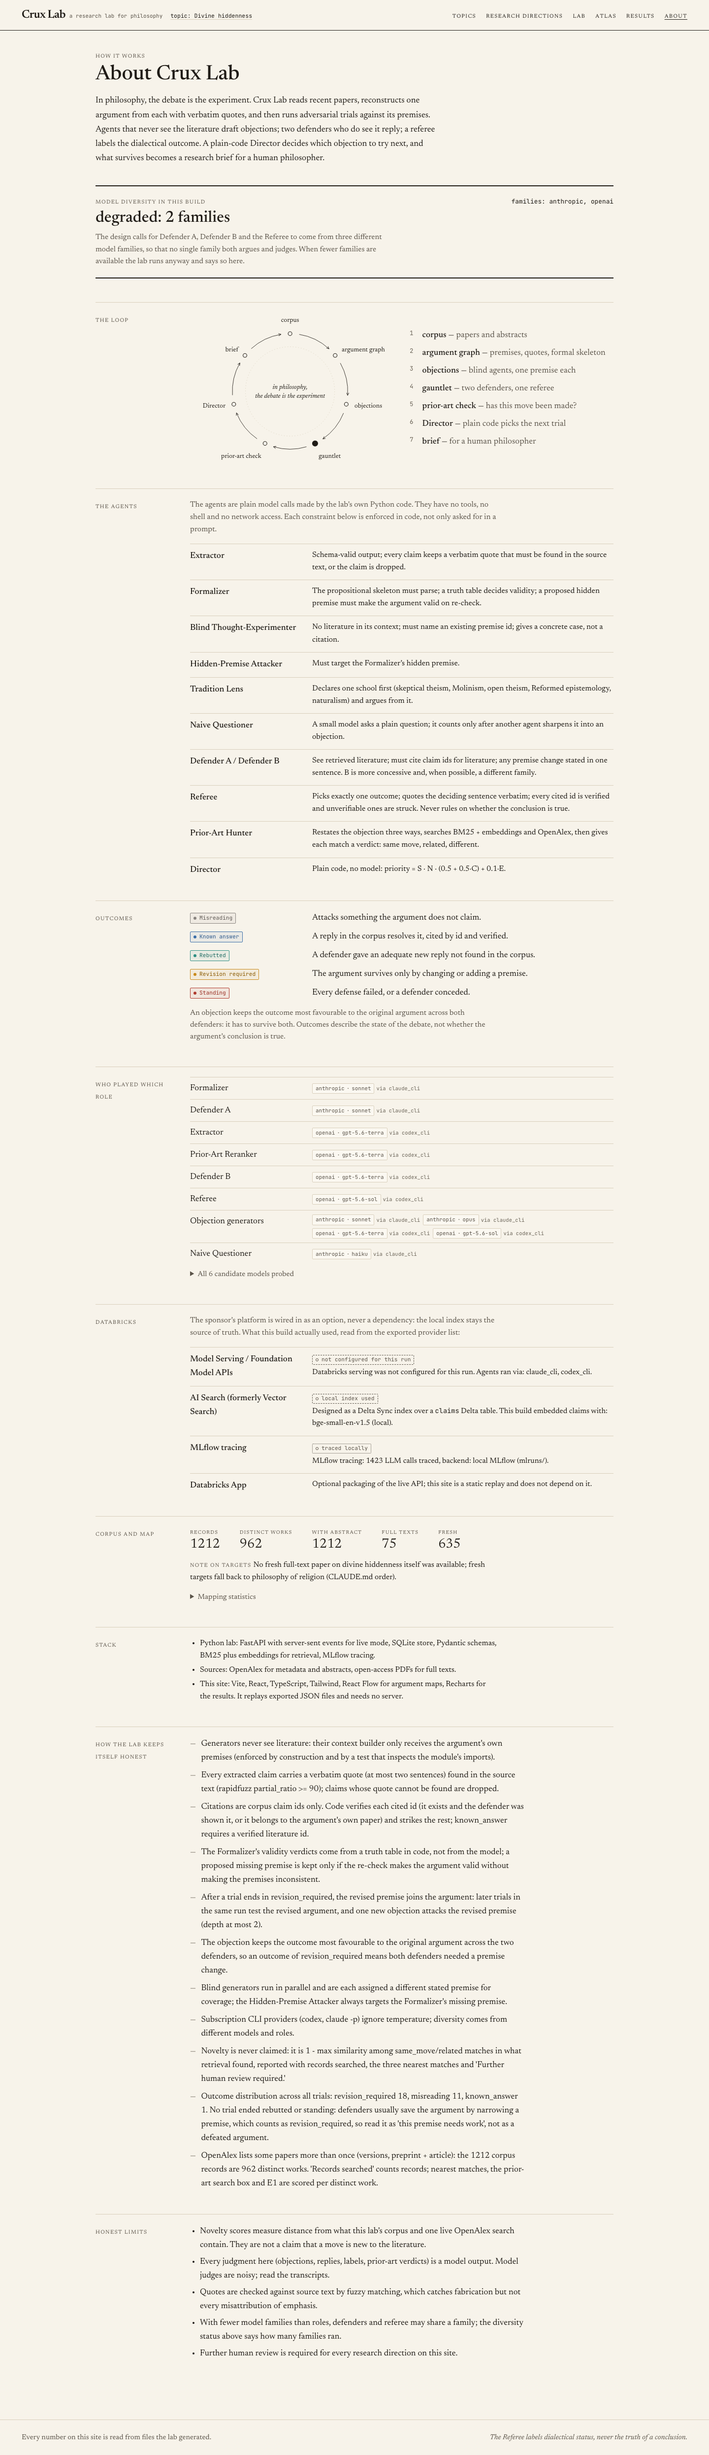
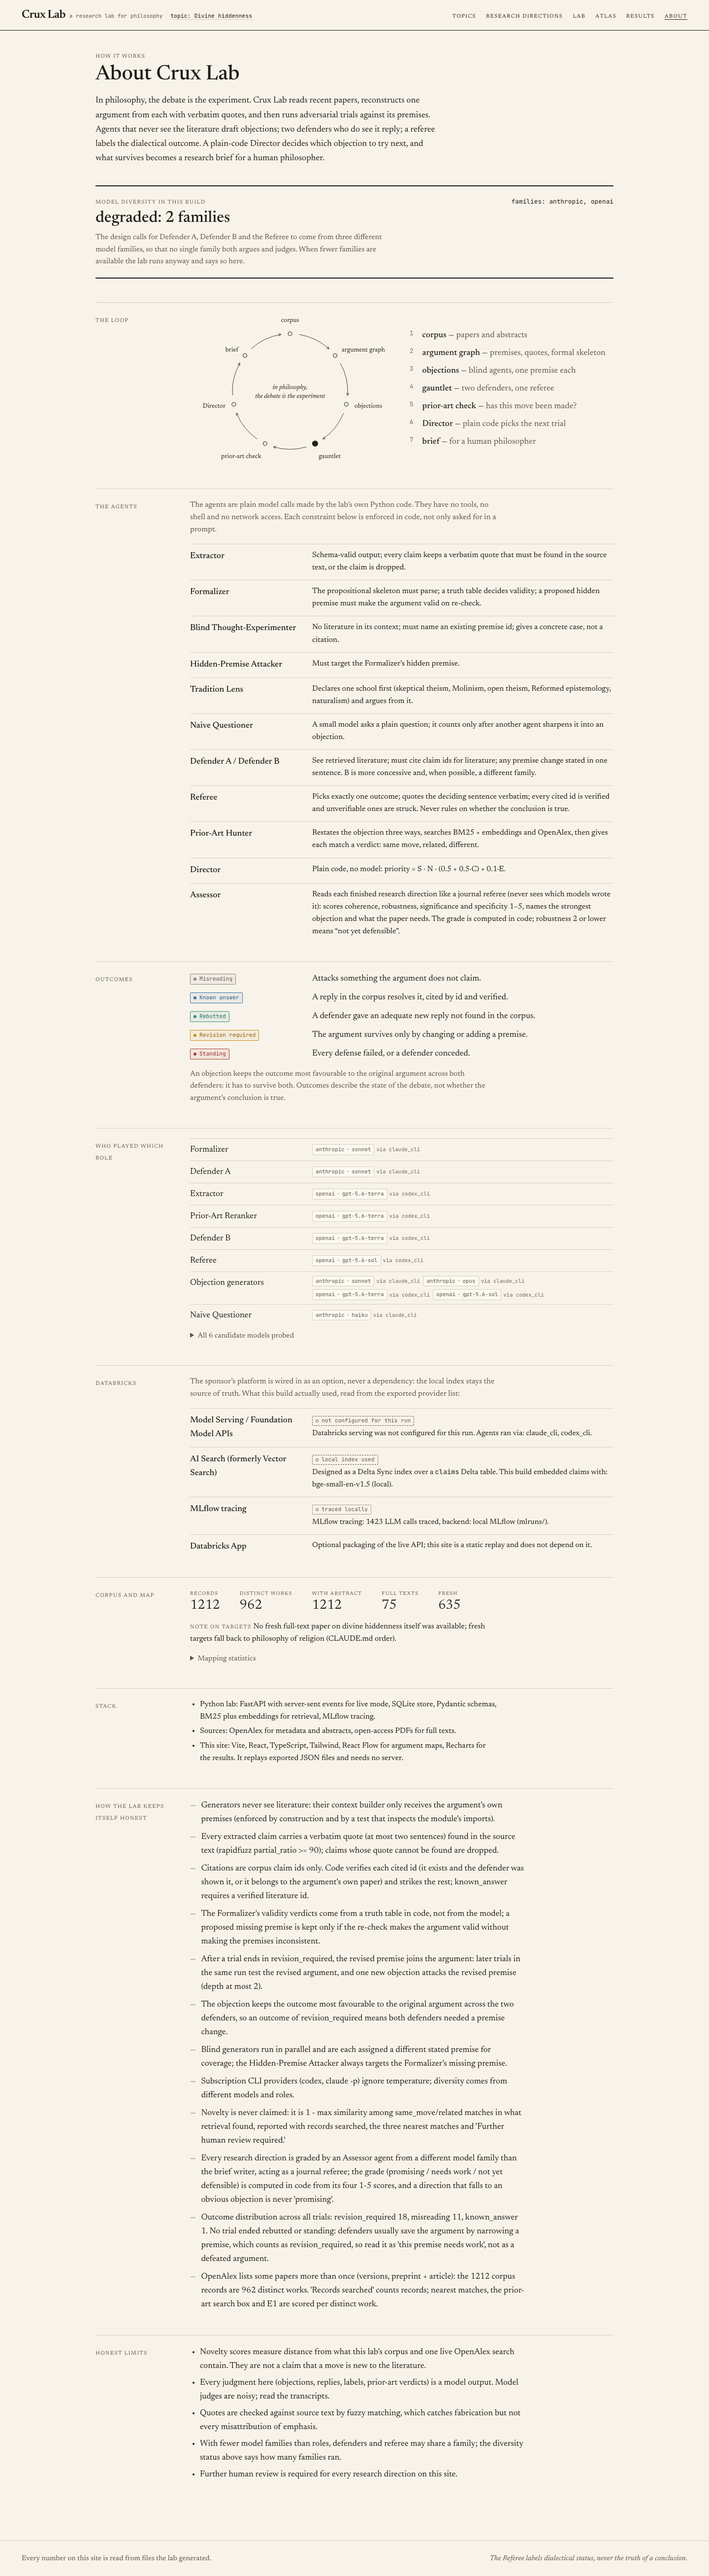
Assessor documented: About agents table, method notes, submission draft, demo script

diff --git a/web/src/pages/About.tsx b/web/src/pages/About.tsx
@@ -25,6 +25,7 @@ const AGENTS: { name: string; constraint: string }[] = [
   { name: "Referee", constraint: "Picks exactly one outcome; quotes the deciding sentence verbatim; every cited id is verified and unverifiable ones are struck. Never rules on whether the conclusion is true." },
   { name: "Prior-Art Hunter", constraint: "Restates the objection three ways, searches BM25 + embeddings and OpenAlex, then gives each match a verdict: same move, related, different." },
   { name: "Director", constraint: "Plain code, no model: priority = S · N · (0.5 + 0.5·C) + 0.1·E." },
+  { name: "Assessor", constraint: "Reads each finished research direction like a journal referee (never sees which models wrote it): scores coherence, robustness, significance and specificity 1–5, names the strongest objection and what the paper needs. The grade is computed in code; robustness 2 or lower means “not yet defensible”." },
 ];
 
 // Status pills use ink tones (outcome colours are reserved for outcomes): solid = used in this build,

diff --git a/scripts/make_submission_md.py b/scripts/make_submission_md.py
@@ -12,6 +12,20 @@ def load(name):
     return json.loads((D / name).read_text())
 
 
+def assessor_line(briefs: list[dict]) -> str:
+    graded = [b for b in briefs if b.get("assessment")]
+    if not graded:
+        return "No Assessor grades exported yet."
+    tally: dict[str, int] = {}
+    for b in graded:
+        tally[b["assessment"]["grade"]] = tally.get(b["assessment"]["grade"], 0) + 1
+    return ("An Assessor agent (a different model family from the brief writer) reads every research direction like a "
+            "journal referee and grades coherence, robustness, significance and specificity; the grade is computed in "
+            "code. Result: " + ", ".join(f"{v} {k}" for k, v in sorted(tally.items(), key=lambda kv: -kv[1]))
+            + f" of {len(graded)}. The lab shows each direction's strongest objection and what a paper would need, "
+            "rather than overselling its leads.")
+
+
 def main() -> None:
     idx, briefs, res, about = load("index.json"), load("briefs.json"), load("results.json"), load("about.json")
     e1, e2, e3 = res.get("e1") or {}, res.get("e2") or {}, res.get("e3") or {}
@@ -49,6 +63,8 @@ def main() -> None:
         f"{e2.get('known_answer', {}).get('gold_reply_cited_by_a_defender')}/{e2.get('known_answer', {}).get('n')} known-answer cases "
         f"(the Referee still labelled only {e2.get('known_answer', {}).get('labelled_known_answer')}/{e2.get('known_answer', {}).get('n')} as known_answer); "
         f"diversity ablation — {e3rows}.", "",
+        "## Quality control",
+        assessor_line(briefs), "",
         "## Example output",
         f"Top research direction: *{top.get('research_question', '')}* — {top.get('outcome', '')}, novelty {top.get('novelty', 0):.2f}, "
         f"{top.get('records_searched', 0)} records searched.", "",

diff --git a/scripts/make_demo_md.py b/scripts/make_demo_md.py
@@ -43,7 +43,12 @@ def main() -> None:
         L += [f"- Research question: *{top['research_question']}*",
               f"- Outcome **{top['outcome']}**, novelty {top['novelty']:.2f} over {top['records_searched']} records searched. "
               "Point at the three nearest matches and the line *Further human review required.*",
-              f"- Challenged premise `{top['challenged_premise']['id']}`: {top['challenged_premise']['text']}", ""]
+              f"- Challenged premise `{top['challenged_premise']['id']}`: {top['challenged_premise']['text']}"]
+        if top.get("assessment"):
+            q = top["assessment"]
+            L += [f"- Scroll to the **academic quality check**: the Assessor grades it *{q['grade']}* "
+                  f"({q['overall']}/5) — read its one-line verdict aloud: \"{q['summary'][:200]}\""]
+        L += [""]
     L += [f"## 0:45 — How it got there (`/lab/{run_id}`)",
           f"- Target: *{run['target']['title']}* ({run['target'].get('kind')}, {run['target'].get('published') or run['target'].get('year')}).",
           f"- Left: the argument map; the Formalizer's hidden premise `{run['argument'].get('missing_premise_id')}` is highlighted "

diff --git a/crux_lab/export.py b/crux_lab/export.py
@@ -35,6 +35,9 @@ METHOD_NOTES = [
     "Subscription CLI providers (codex, claude -p) ignore temperature; diversity comes from different models and roles.",
     "Novelty is never claimed: it is 1 - max similarity among same_move/related matches in what retrieval found, "
     "reported with records searched, the three nearest matches and 'Further human review required.'",
+    "Every research direction is graded by an Assessor agent from a different model family than the brief writer, "
+    "acting as a journal referee; the grade (promising / needs work / not yet defensible) is computed in code from "
+    "its four 1-5 scores, and a direction that falls to an obvious objection is never 'promising'.",
 ]
 
 

diff --git a/docs/SUBMISSION.md b/docs/SUBMISSION.md
@@ -15,6 +15,9 @@ In philosophy the debate is the experiment. Crux Lab runs it: it reads recent pa
 - **Grounding enforced in code:** quotes verified against source text, citations are corpus ids verified by code, generators cannot see literature, validity is decided by a truth table, novelty is never claimed.
 - **Measured:** prior-art recall@5 86% for the lab's pipeline vs 16% for keyword search (n=50); the Referee caught 10/10 deliberate misreadings; a defender cited the published reply in 7/10 known-answer cases (the Referee still labelled only 1/10 as known_answer); diversity ablation — plain prompt, one model: 1.8 distinct premises/argument, spread 0.114; constrained roles, one model: 2.4 distinct premises/argument, spread 0.224; constrained roles, mixed families: 2.6 distinct premises/argument, spread 0.213.
 
+## Quality control
+An Assessor agent (a different model family from the brief writer) reads every research direction like a journal referee and grades coherence, robustness, significance and specificity; the grade is computed in code. Result: 14 not yet defensible of 14. The lab shows each direction's strongest objection and what a paper would need, rather than overselling its leads.
+
 ## Example output
 Top research direction: *Can a similarity-relative parthood relation adequately track the metaphysical constituency denied by the traditional doctrine of divine simplicity?* — revision_required, novelty 0.92, 4139 records searched.
 

diff --git a/docs/DEMO.md b/docs/DEMO.md
@@ -1,7 +1,7 @@
 # Demo script (2 minutes)
 
 Generated by `scripts/make_demo_md.py` from `web/public/data/` — every id and number below is read from the export.
-Export generated at 2026-10-04T09:06:51.310684+00:00.
+Export generated at 2026-10-04T09:09:14.281505+00:00.
 
 Start: `make demo` → http://localhost:4680
 
@@ -14,6 +14,7 @@ Start: `make demo` → http://localhost:4680
 - Research question: *Can a similarity-relative parthood relation adequately track the metaphysical constituency denied by the traditional doctrine of divine simplicity?*
 - Outcome **revision_required**, novelty 0.92 over 4139 records searched. Point at the three nearest matches and the line *Further human review required.*
 - Challenged premise `W7212186029.c013`: Instantiation can be modelled as parthood because objects may be understood as mereological fusions of their properties.
+- Scroll to the **academic quality check**: the Assessor grades it *not yet defensible* (2.75/5) — read its one-line verdict aloud: "There is a real question about whether a formal similarity-parthood relation captures what classical simplicity denies, but the copper-wire argument begs the question against constituent ontology and "
 
 ## 0:45 — How it got there (`/lab/run-oa-W7212186029`)
 - Target: *Divine simplicity as symmetric parthood* (fresh, 2026-09-10).
